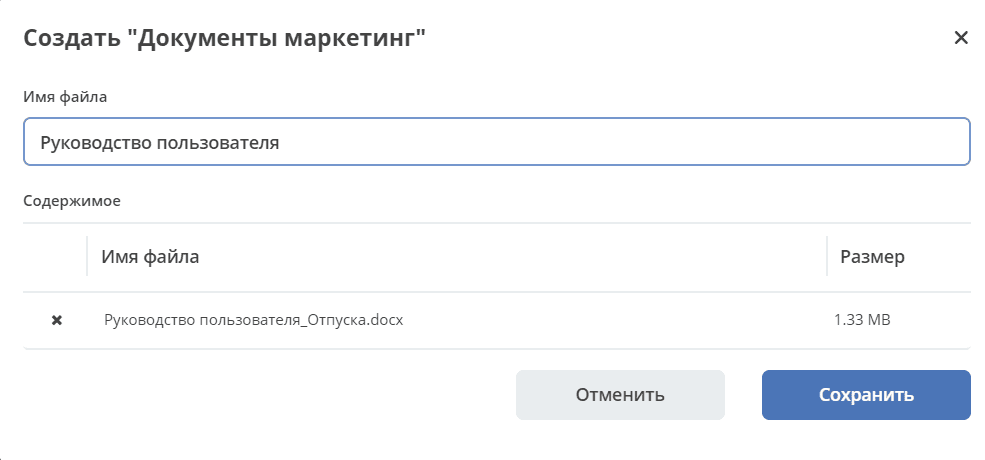
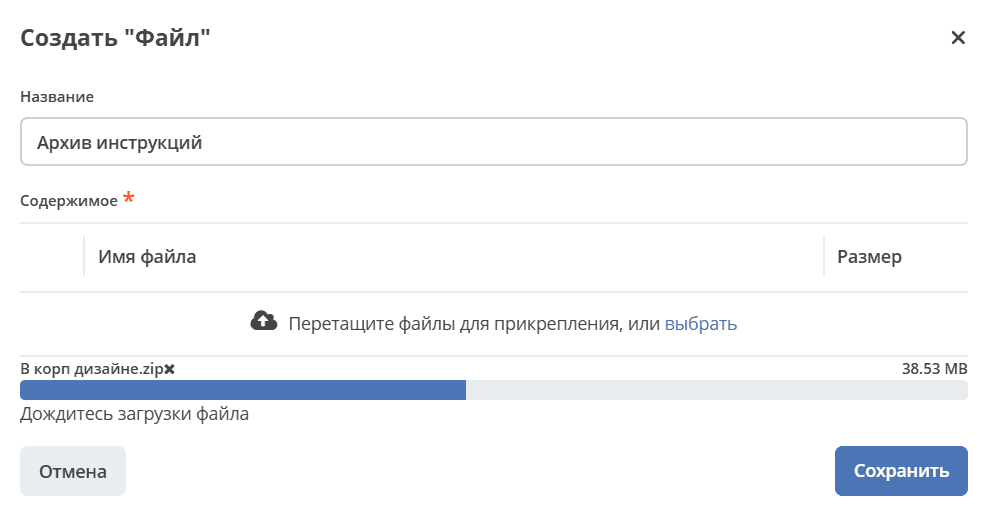
Doclib update
ECOSUI-3220	Doclib. No validation of identical files

diff --git a/docs/settings_kb/interface/journals/document_library.rst b/docs/settings_kb/interface/journals/document_library.rst
@@ -144,6 +144,8 @@
        :width: 600
        :align: center
 
+На форме отображается индикатор процесса загрузки файла.
+
 При создании папки укажите ее название:
 
  .. image:: _static/doclib/DocLib_7.png
@@ -188,6 +190,23 @@
                   :width: 700
                   :align: center
 
+При загрузке, создании файлов и папок производится проверка на уникальность:
+
+.. list-table::
+      :widths: 20 20
+      :align: center
+
+      * - |
+
+            .. image:: _static/doclib/validation_name_01.png
+                  :width: 300
+                  :align: center
+
+        - |
+
+            .. image:: _static/doclib/validation_name_02.png
+                  :width: 300
+                  :align: center
 
 Карточка файла
 ----------------
